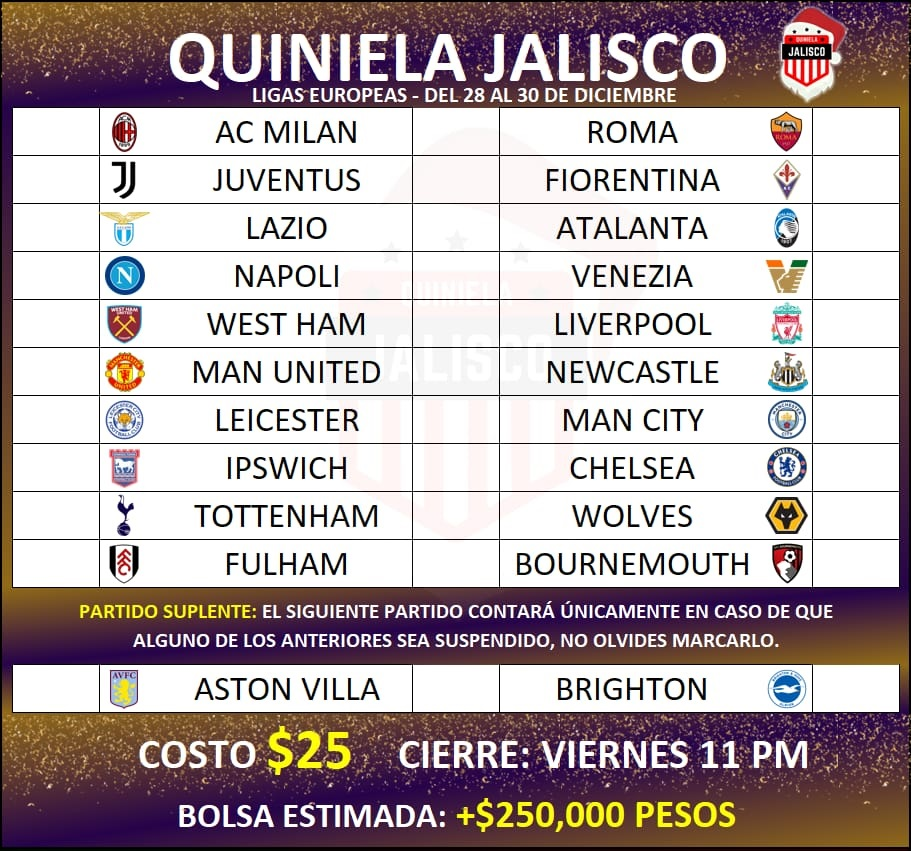
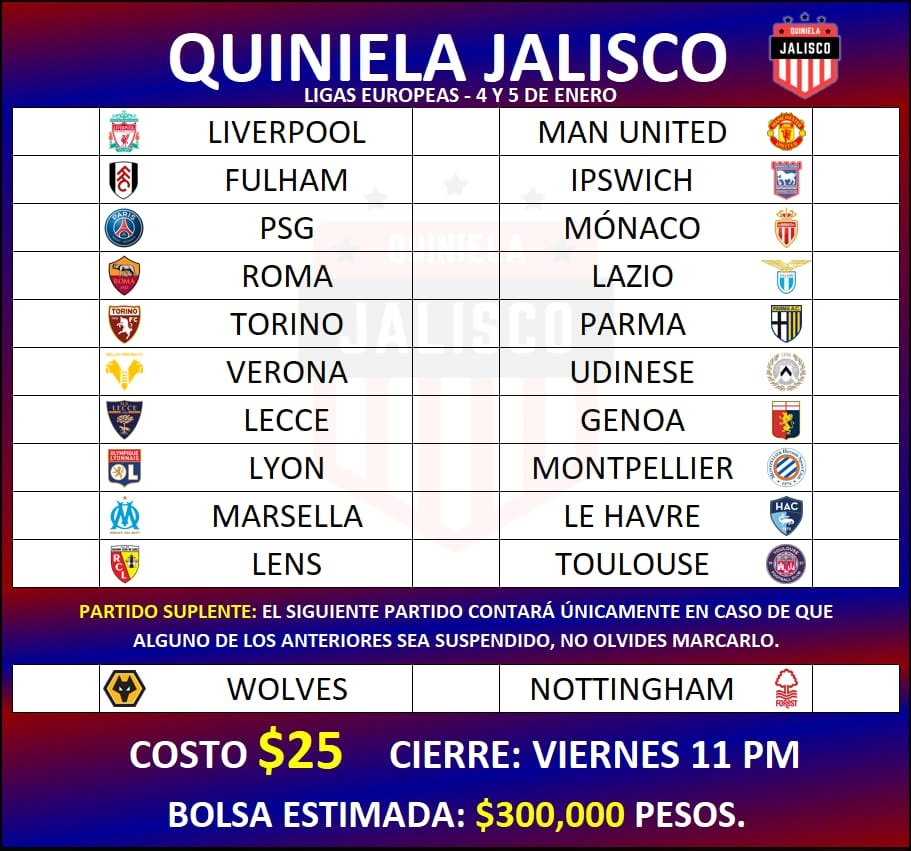
LIGAS EUROPEAS

diff --git a/index.html b/index.html
@@ -19,7 +19,7 @@
     <script src="11/main11.js"></script>
     <script src="https://quinielajal.github.io/Registro-1/var.js"></script>
     <script src="var.js"></script>
-    <script src='./snow.js' defer></script>
+    <!-- <script src='./snow.js' defer></script> -->
 </head>
 
 <body>
@@ -33,7 +33,7 @@
         </span>
     </p>
     <!-- Quiniela -->
-    <div id="snow"></div>
+    <!-- <div id="snow"></div> -->
     <div class="quiniela" id="quiniela">
         <div class="aux"><h3 style="padding: 5px 7px" onclick="clean()"><ion-icon name="close-outline"></ion-icon></h3></div>
         <div class="partido">
@@ -191,9 +191,9 @@
           PegasusDev
         </a>
     </div>
-<div class="d-flex justify-content-end" style="filter:opacity(0.3);">
+<!-- <div class="d-flex justify-content-end" style="filter:opacity(0.3);">
     <ion-icon style="filter:invert(1); margin-top:4px;" name="snow"></ion-icon>
     <div class="form-check form-switch"><input id="snowBtn" class="form-check-input" type="checkbox" checked></div>
-</div>
+</div> -->
 <br>
 </body>

diff --git a/11/styles11.css b/11/styles11.css
@@ -9,7 +9,7 @@ body{
     max-width: 400px;
     margin: auto;
     background-color: rgb(6,12,37);
-    background-image: url("../bg/fondo21.jpg");
+    background-image: url("../bg/fondo8.jpg");
     background-repeat: repeat-y;
     background-position: top;
 }
@@ -95,8 +95,8 @@ body{
     margin-top: 8.5%;
     border-top: solid 1px black;
     border-radius: 0 0 14px 14px;
-    background: -webkit-linear-gradient(0.49turn, rgb(38 7 73) -7%, rgb(134 93 33) 80%);
-    background: linear-gradient(0.49turn, rgb(38 7 73) -7%, rgb(134 93 33) 80%);
+    background: -webkit-linear-gradient(0.49turn, rgb(4 0 146) -7%, rgb(120 1 30) 80%);
+    background: linear-gradient(0.49turn, rgb(4 0 146) -7%, rgb(120 1 30) 80%);
 }
 
 .text-lg{
@@ -293,7 +293,7 @@ h6{
 }
 
 #cantidad:before{
-    content:'+$250,000 pesos';
+    content:'$300,000 pesos';
     color: yellow;
     white-space:pre;
 }
